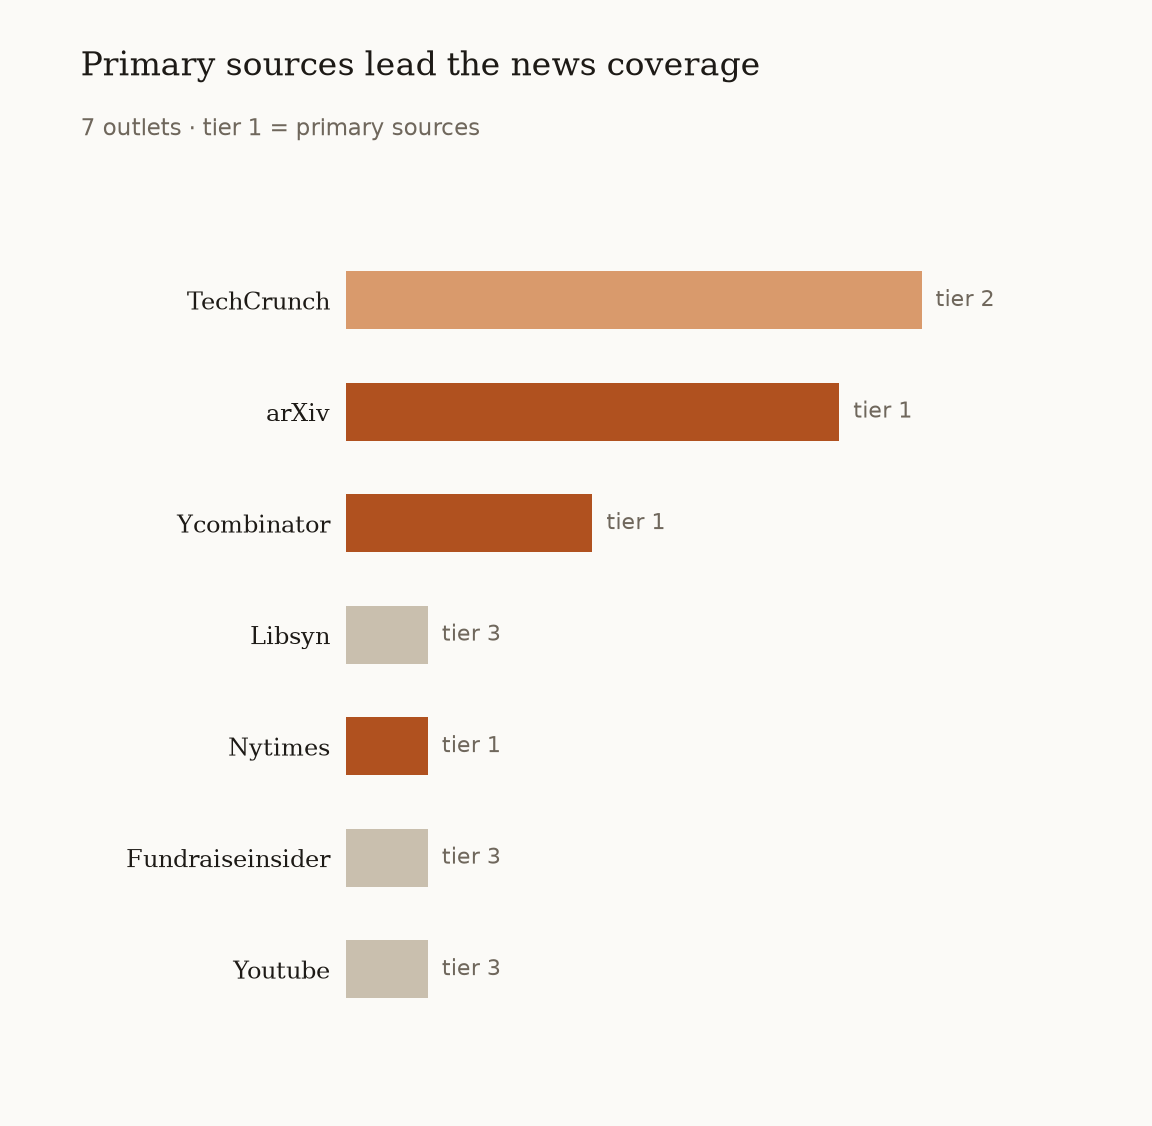
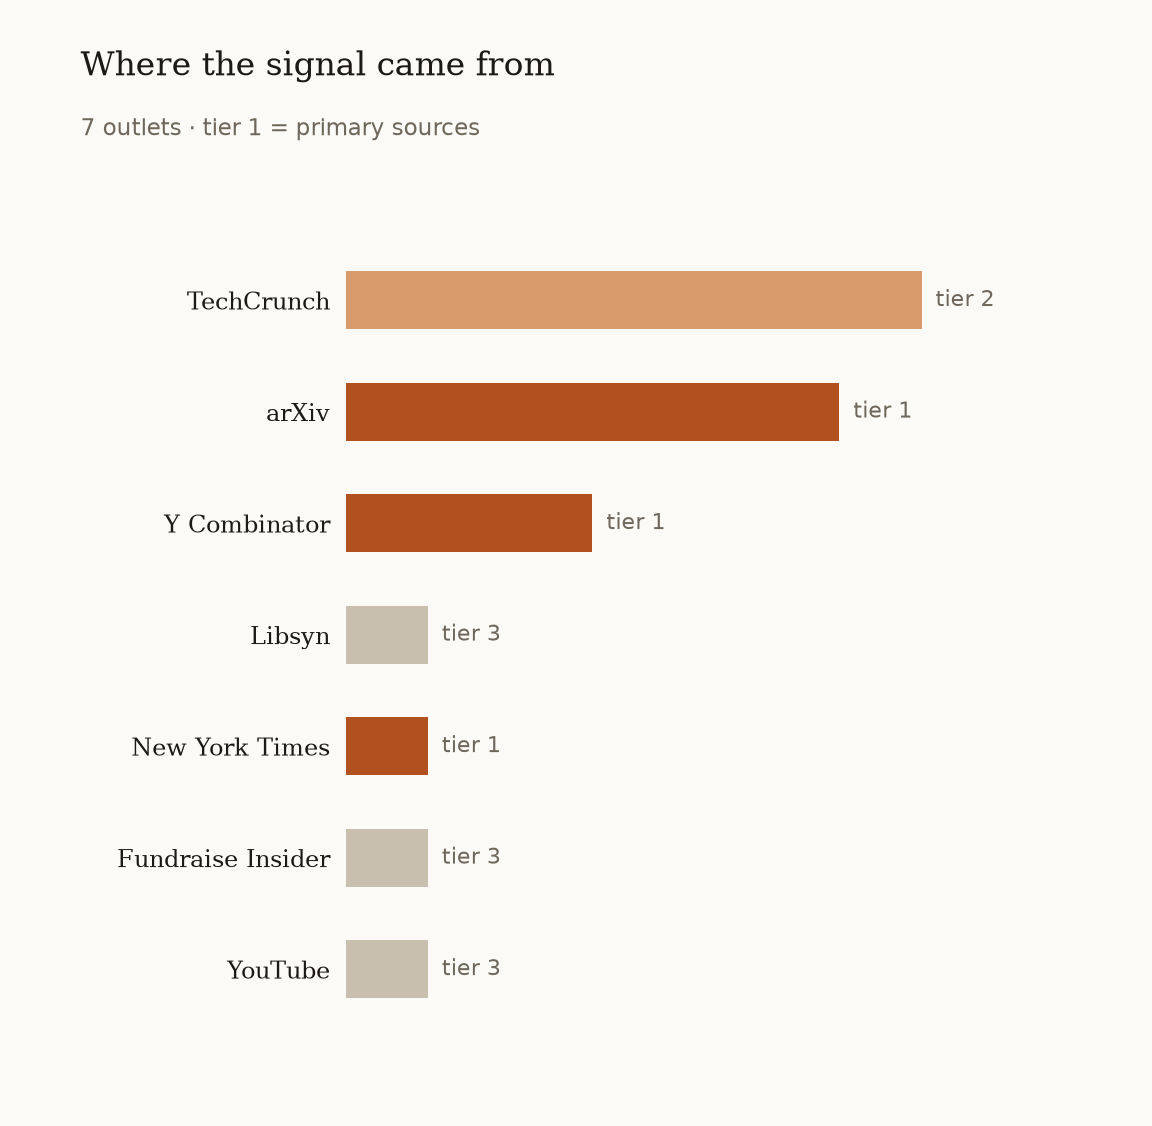
fix: pretty outlet names on charts (Y Combinator, New York Times, YouTube)

diff --git a/data/newsletter-email.html b/data/newsletter-email.html
@@ -14,15 +14,15 @@
     <div style="font-size:11px;letter-spacing:2px;text-transform:uppercase;color:#b0511f;font-weight:bold;padding-bottom:8px;">By the numbers</div>
   </td></tr>
       <tr><td style="padding:18px 0 6px 0;">
-        <div style="font-family:Georgia,serif;font-size:17px;font-weight:bold;color:#1d1a16;">AI agents dominate the conversation</div>
+        <div style="font-family:Georgia,serif;font-size:17px;font-weight:bold;color:#1d1a16;">What&#x27;s spiking</div>
         <div style="font-size:12px;color:#6f675c;padding:2px 0 8px 0;">Topic mentions across every story in this edition</div>
-        <img src="https://aadit-field-manual.web.app/charts/2026-10-02/momentum.png" alt="AI agents dominate the conversation" width="560" style="display:block;width:100%;max-width:560px;height:auto;border:1px solid #e9e2d6;" />
+        <img src="https://aadit-field-manual.web.app/charts/2026-10-02/momentum.png" alt="What&#x27;s spiking" width="560" style="display:block;width:100%;max-width:560px;height:auto;border:1px solid #e9e2d6;" />
         <div style="font-size:11px;color:#a39a8c;padding-top:6px;">Keyword hits across titles and descriptions; not sentiment.</div>
       </td></tr>
       <tr><td style="padding:18px 0 6px 0;">
-        <div style="font-family:Georgia,serif;font-size:17px;font-weight:bold;color:#1d1a16;">Primary sources lead the news coverage</div>
+        <div style="font-family:Georgia,serif;font-size:17px;font-weight:bold;color:#1d1a16;">Where the signal came from</div>
         <div style="font-size:12px;color:#6f675c;padding:2px 0 8px 0;">7 outlets · tier 1 = primary sources</div>
-        <img src="https://aadit-field-manual.web.app/charts/2026-10-02/sources.png" alt="Primary sources lead the news coverage" width="560" style="display:block;width:100%;max-width:560px;height:auto;border:1px solid #e9e2d6;" />
+        <img src="https://aadit-field-manual.web.app/charts/2026-10-02/sources.png" alt="Where the signal came from" width="560" style="display:block;width:100%;max-width:560px;height:auto;border:1px solid #e9e2d6;" />
         <div style="font-size:11px;color:#a39a8c;padding-top:6px;">Tier 1: official announcements/papers. Tier 2: newsrooms. Tier 3: blogs/wires.</div>
       </td></tr>
   

diff --git a/services/curator.py b/services/curator.py
@@ -270,7 +270,11 @@ def source_name(url):
         "greenhouse.io": "Greenhouse", "lever.co": "Lever", "ashbyhq.com": "Ashby",
         "wellfound.com": "Wellfound", "reddit.com": "Reddit",
         "news.ycombinator.com": "Hacker News", "medium.com": "Medium",
-        "substack.com": "Substack",
+        "substack.com": "Substack", "ycombinator.com": "Y Combinator",
+        "nytimes.com": "New York Times", "youtube.com": "YouTube",
+        "youtu.be": "YouTube", "fundraiseinsider.com": "Fundraise Insider",
+        "libsyn.com": "Libsyn", "allin.com": "All In",
+        "investlikethebest.com": "Invest Like the Best",
     }
     if host in pretty:
         return pretty[host]
